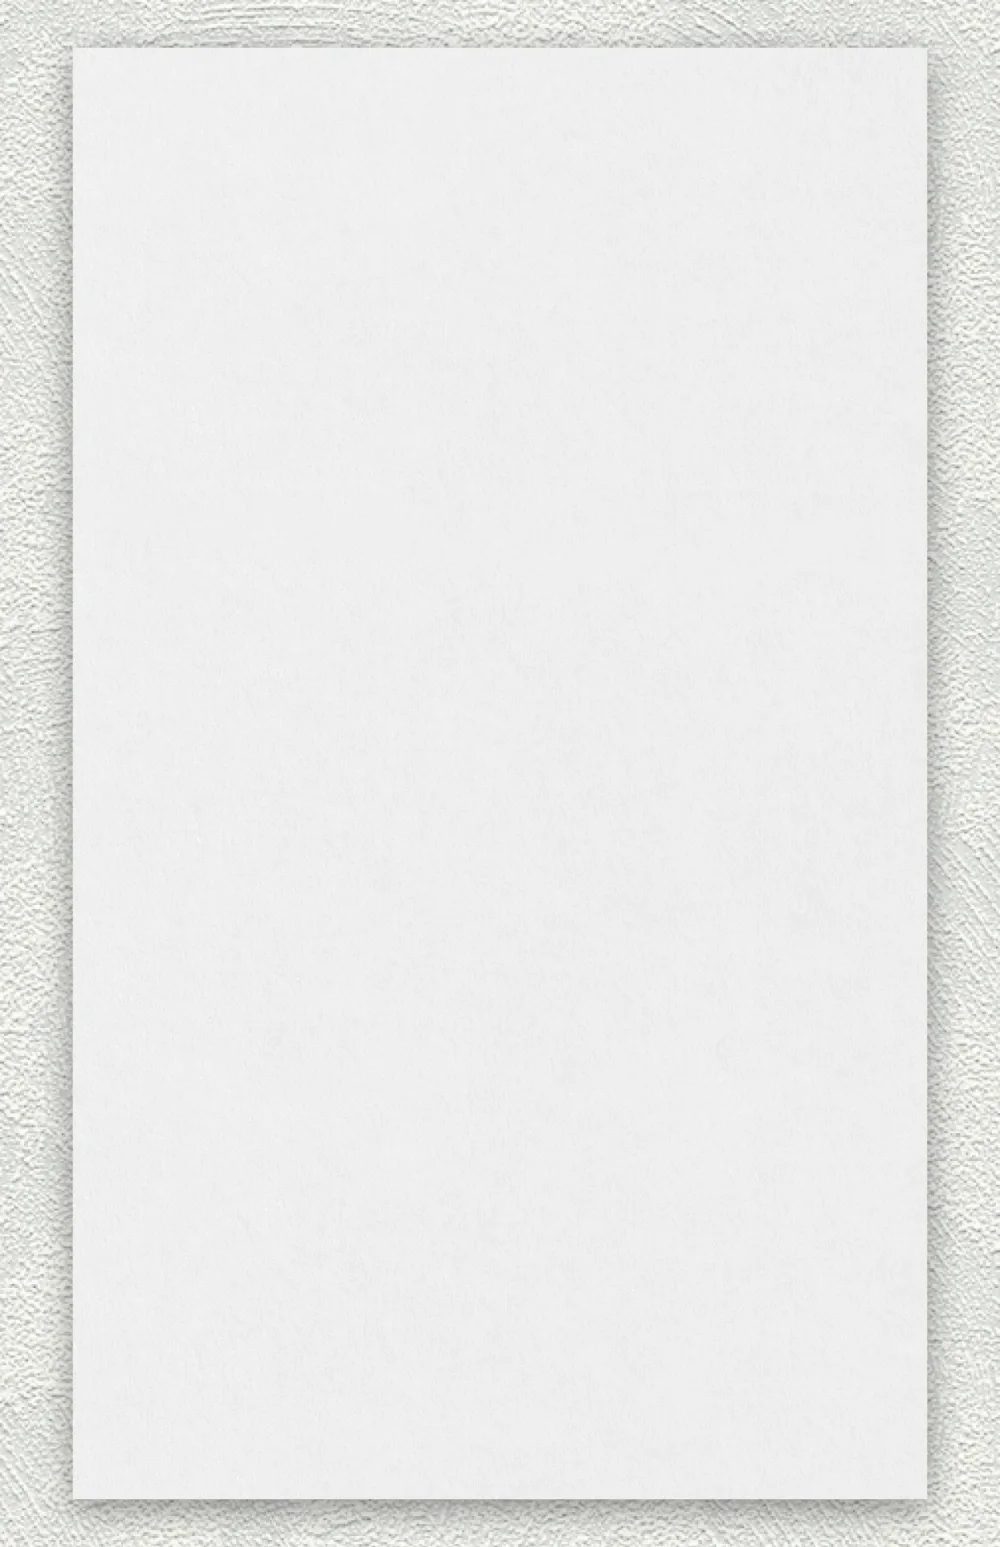
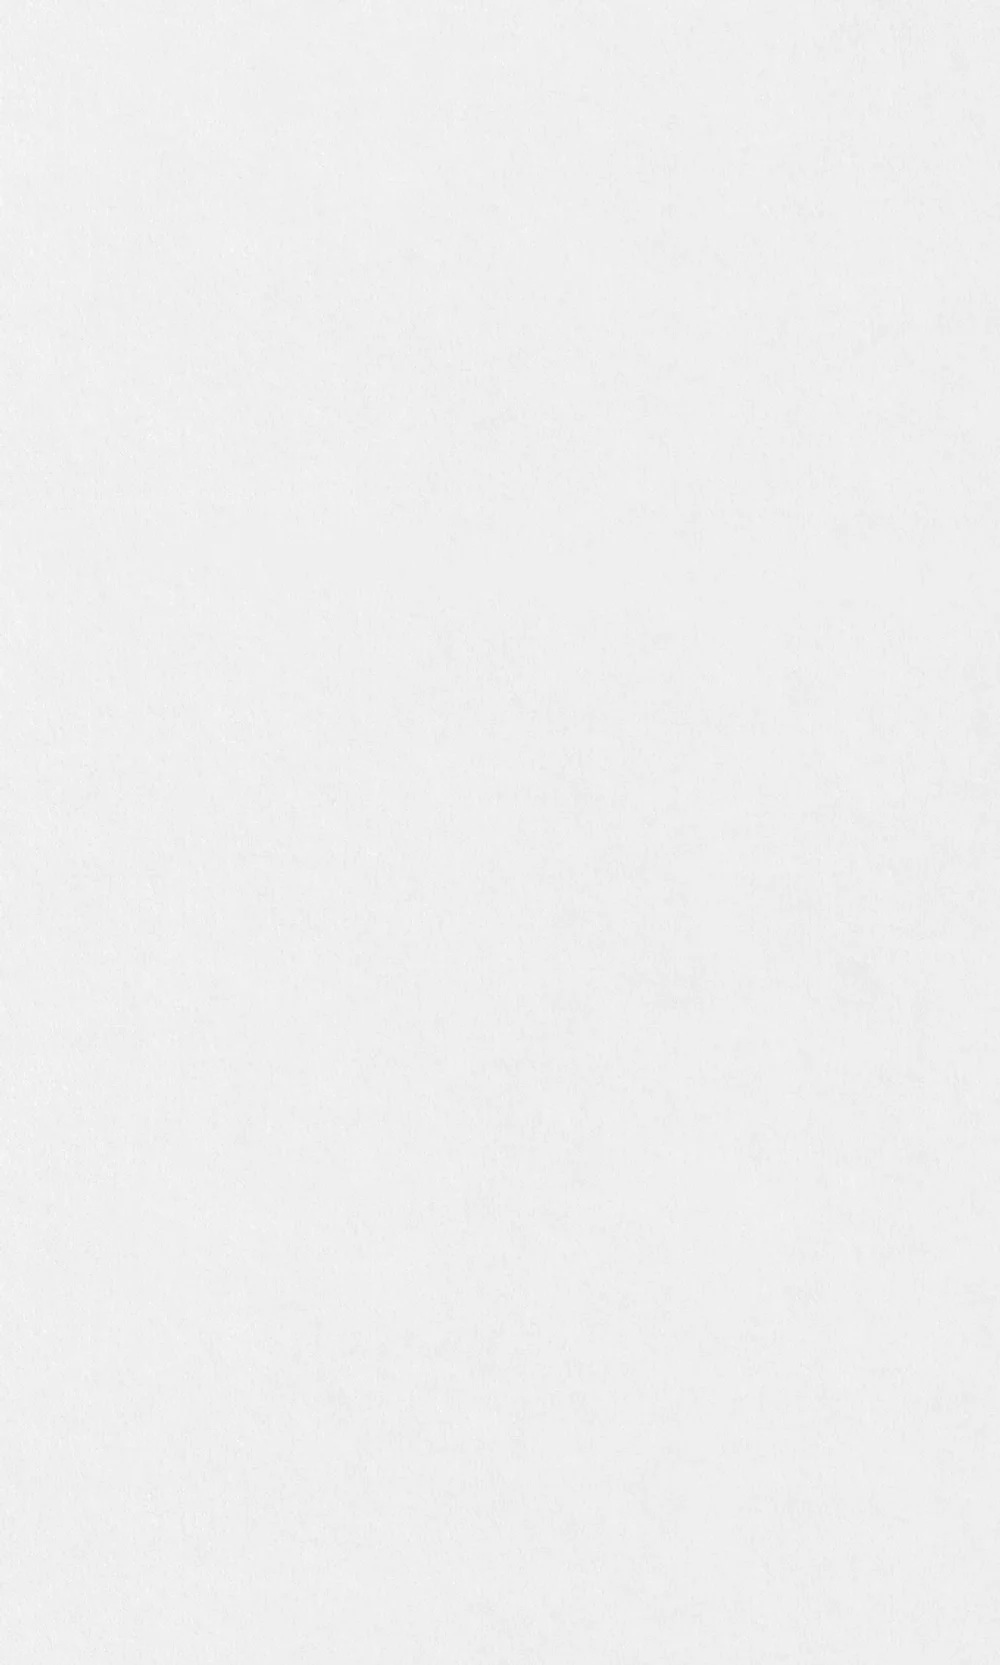
Mono Script: new plain paper Frame 106 on every screen except the cover; save the date title 40px

Changed region(s): [[0.0, 0.0, 1.0, 1.0]]

diff --git a/app/templates/mono-script.css b/app/templates/mono-script.css
@@ -255,12 +255,12 @@ body:has(.inv[data-template="mono-script"]) .music-btn { color:#111; border-colo
 
 /* ───────── 31. PAPER OF EACH PAGE: change a page's background here (one place, nothing else overrides it) ─────────
    Files are in public/templates/script/v1/ (the original PNGs are in assets/mono-script/). Cover = no paper. */
-.inv[data-template="mono-script"] { --ms-bg-sheet:url(/templates/script/v1/stone-card.webp);      /* 2 save the date */
-  --ms-bg-venue:url(/templates/script/v1/stone-card.webp);      /* 3 venue */
-  --ms-bg-timeline:url(/templates/script/v1/stone-card.webp);     /* 4 timeline */
-  --ms-bg-details:url(/templates/script/v1/stone-card.webp);      /* 5 details */
-  --ms-bg-rsvp:url(/templates/script/v1/stone-card.webp);         /* 6 RSVP */
-  --ms-bg-closing:url(/templates/script/v1/stone-card.webp); }    /* 7 closing */
+.inv[data-template="mono-script"] { --ms-bg-sheet:url(/templates/script/v1/frame-106.webp);      /* 2 save the date */
+  --ms-bg-venue:url(/templates/script/v1/frame-106.webp);      /* 3 venue */
+  --ms-bg-timeline:url(/templates/script/v1/frame-106.webp);     /* 4 timeline */
+  --ms-bg-details:url(/templates/script/v1/frame-106.webp);      /* 5 details */
+  --ms-bg-rsvp:url(/templates/script/v1/frame-106.webp);         /* 6 RSVP */
+  --ms-bg-closing:url(/templates/script/v1/frame-106.webp); }    /* 7 closing */
 .inv[data-template="mono-script"] .card-sheet    { background:#f3f2f0 var(--ms-bg-sheet)    center / cover no-repeat !important; }
 .inv[data-template="mono-script"] .card-venue    { background:#f3f2f0 var(--ms-bg-venue)    center / cover no-repeat !important; }
 .inv[data-template="mono-script"] .card-timeline { background:#f3f2f0 var(--ms-bg-timeline) center / cover no-repeat !important; }
@@ -348,3 +348,6 @@ body:has(.inv[data-template="mono-script"]) .music-btn { color:#111; border-colo
 .inv[data-template="mono-script"] .tl-in { padding-left:var(--ms-left); }                          /* no ornament column on the left any more */
 .inv[data-template="mono-script"] .card-timeline .swipe-hint { left:var(--ms-left); }
 .inv[data-template="mono-script"] .card-sheet .sheet-in, .inv[data-template="mono-script"] .card-sheet .sheet-in:not(.no-photo) { padding-top:12cqh; }   /* the photo starts under the top ornament row */
+
+/* ───────── 45. Screen 2: "Save the date" is 40px ───────── */
+.inv[data-template="mono-script"] .card-sheet .sheet-in:not(.no-photo) .save, .inv[data-template="mono-script"] .card-sheet .save { font-size:calc(40px * var(--k, 1)); }
